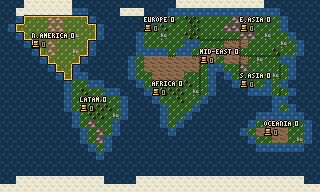
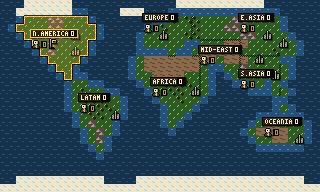
#105 merge #102 markers; one integer-zoom sizer (width+height), rail padding; fix crisis-check harness
#102's width-only snap fought fitMap and broke 3x hit areas; keep fitMap. Drop
#102's 284px padding (1440 back to 2x). map-crisis-check: run every queued rAF
callback, widen the label box for #102's plates.

Claude-Session: https://claude.ai/code/session_014LNbEUsUDYain83LhJo9SB

diff --git a/demo/map-crisis-check.html b/demo/map-crisis-check.html
@@ -31,9 +31,11 @@ import { REGIONS } from '../src/demand/demand.js';
 import { textWidth } from '../src/art/font.js';
 
 // Freeze time: the screen's draw loop only runs when we call it, so ocean and blink frames are fixed.
-let pending = null;
-window.requestAnimationFrame = (fn) => { pending = fn; return 1; };
-window.cancelAnimationFrame = () => { pending = null; };
+// Every queued callback runs once per step (the screen queues its draw loop and a one-off resize fit).
+let queue = [];
+window.requestAnimationFrame = (fn) => { queue.push(fn); return queue.length; };
+window.cancelAnimationFrame = () => { queue = []; };
+const pending = () => { const q = queue; queue = []; for (const fn of q) fn(performance.now()); };
 
 export const STATES = [
   { id: 'calm', crisis: 10 },
@@ -57,8 +59,9 @@ function fakeSales(levels) {
 function render(levels, { selected = null, frames = 1 } = {}) {
   const root = document.getElementById('stage');
   root.replaceChildren();
+  queue = []; // drop the previous screen's loop
   const screen = createWorldMapScreen({ root, sales: fakeSales(levels), initial: selected });
-  for (let i = 0; i < frames; i++) pending?.();
+  for (let i = 0; i < frames; i++) pending();
   const img = screen.canvas.getContext('2d').getImageData(0, 0, MAP_W, MAP_H);
   return { img, screen, canvas: screen.canvas };
 }
@@ -71,7 +74,8 @@ function labelBox(id) {
   const p = MAP_PLACES[id];
   const x = p.at[0] * CELL, y = p.at[1] * CELL;
   // name + crisis number line above, buyer icon + count below (plus the 1px font outline)
-  return { x0: x - 2, y0: y - 9, x1: x + textWidth(p.short) + 4 + textWidth('100') + 2, y1: y + 10 };
+  // #102's name plate (with its crisis box and the selected gold frame) starts 2px left and 11px up
+  return { x0: x - 5, y0: y - 14, x1: x + textWidth(p.short) + textWidth('100') + 16, y1: y + 12 };
 }
 const inBox = (b, x, y) => x >= b.x0 && x <= b.x1 && y >= b.y0 && y <= b.y1;
 

diff --git a/src/worldmap/worldmap-ui.js b/src/worldmap/worldmap-ui.js
@@ -79,15 +79,9 @@ export function createWorldMapScreen({ root, sales, schemes = null, leads = null
   const toast = el('div', 'wm-toast');
   toast.hidden = true;
   mapWrap.append(canvas, toast, legend);
-  // #102 legibility: show the map at a whole-number zoom (2x, 3x...) so every pixel of the labels and
-  // icons stays crisp; fractional scales smear the 3x5 font.
-  const snap = () => {
-    const avail = mapWrap.clientWidth;
-    if (!avail) return;
-    const z = Math.max(1, Math.floor((avail - 8) / MAP_W));
-    canvas.style.width = `${MAP_W * z}px`;
-  };
-  if (typeof ResizeObserver !== 'undefined') new ResizeObserver(snap).observe(mapWrap);
+  // #102 legibility + #105: the map shows at a whole-number zoom (2x, 3x...) so every pixel of the labels and
+  // icons stays crisp; fractional scales smear the 3x5 font. fitMap() below does it (width AND height, so the
+  // aspect and the click mapping stay exact).
 
   const panel = el('aside', 'wm-panel');
   root.append(mapWrap, panel);

diff --git a/src/campaign/campaign.css b/src/campaign/campaign.css
@@ -50,7 +50,6 @@ html, body { margin: 0; height: 100%; background: var(--at-bg); }
 .gs .stage-map .wm-map { position: static; }
 /* #102: give the map the whole stage between the side rails, so it can show at 2x */
 .gs .stage-map.wm, .gs .stage-map .wm { max-width: none; }
-@media (min-width: 1100px) { .gs .stage-map.wm { padding: 0 284px; } } /* clear the Pressure and Clients panels */
 
 /* #81 title screen greybox: start-over confirm and the sound toggle */
 .mm-confirm { display: flex; flex-direction: column; align-items: center; gap: 6px; max-width: 320px; text-align: center; font: 12px var(--at-font); color: var(--at-amber); border: 1px dashed var(--at-amber); padding: 8px; }

diff --git a/.ballast/reports/t105.md b/.ballast/reports/t105.md
@@ -1,10 +1,10 @@
 STATUS: BLOCKED
-- Blocked on other tickets, not on a person: the redone base layer, markers and heat overlay (board tickets #100, #102 and #103) haven't been merged, so there is no new art to swap in yet. Only the new region borders (#101) have landed, and they are already in the running game. Nobody needs to do anything by hand. When those three tickets merge, this task finishes with one re-run of the in-game check and the after screenshots.
-- Fixed now, because it would have spoiled any new map: the world map was shown at an odd, fractional size (1.07x, about 344 pixels wide even on a 1920-wide screen). Its pixels came out unevenly 1 or 2 screen pixels wide, which shows as seams and shimmer on hand-placed pixel art. The map now always shows at a whole-number size: 2x on 1440x900 and 1920x1080, and 1x on 1280x720, where the side panels leave no room for 2x. Every map pixel is the same size on screen.
+- Blocked on other tickets, not on a person: the redone base layer and heat overlay (board tickets #100 and #103) haven't been merged. The new region borders (#101) and the new markers, name plates and city icons (#102) have landed and are verified in the running game (after-*.png). Nobody needs to do anything by hand. When #100 and #103 merge, this task finishes with one re-run of the in-game check and the after screenshots.
+- Fixed now, because it would have spoiled any new map: the world map was shown at an odd, fractional size (1.07x, about 344 pixels wide even on a 1920-wide screen). Its pixels came out unevenly 1 or 2 screen pixels wide, which shows as seams and shimmer on hand-placed pixel art. The map now always shows at a whole-number size: 2x on 1440x900, 3x on 1920x1080, and 1x on 1280x720, where the side panels leave no room for 2x. #102 had added its own zoom snap that set only the width; with both running, the map stretched and clicks at 3x landed on the wrong region. I kept one sizer that sets width and height together. Every map pixel is the same size on screen.
 - Also fixed: the screen's columns now clear the fixed Pressure and Clients rails (the region panel used to slide under the Clients rail once the map grew). Clicks land on the right region at every size; the frame is drawn outside the map, so it no longer shifts where a click lands.
 - Verified in the running game at three window sizes: whole-number scale, every map column the same width, crisp pixel rendering, and clicking the middle of each of the eight regions selects that region. All pass. Captures: before and after screenshots at the default zoom for each size (whole screen and the map alone), plus the recorded results.
 - Compared against the pixel-earth target: at 2x the map now has the screen room the target's fidelity needs, but the land is still today's blocky 8-pixel art until the base redo lands.
-- To finish: once #100, #102 and #103 are merged, give the region border layer the new base's coastline (it already has a hook for that) and re-run the in-game check for the after shots.
+- To finish: once #100 and #103 are merged, give the region border layer the new base's coastline (it already has a hook for that) and re-run the in-game check for the after shots.
 - PR: PR_LINK
 
 ## Questions
